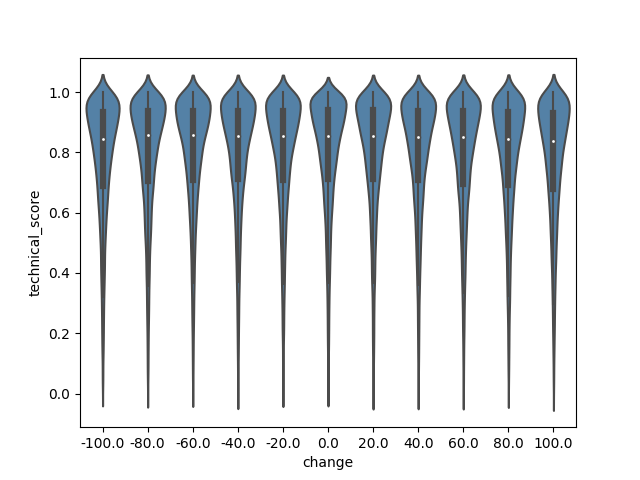
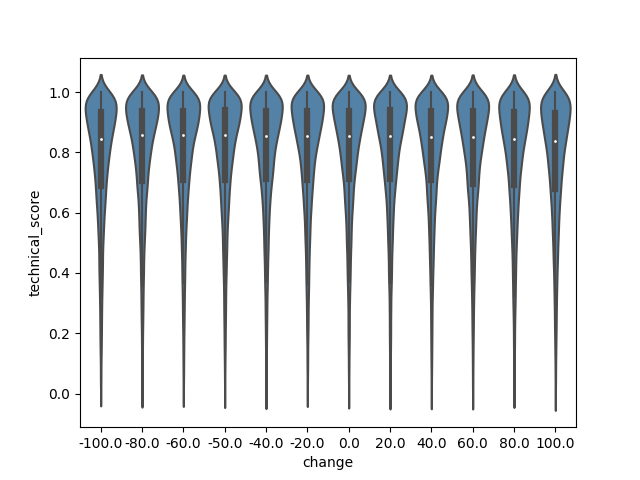
fixing defaults

Changed region(s): [[0.125, 0.1562, 0.9062, 0.875], [0.125, 0.9062, 0.9062, 0.9375]]

diff --git a/analysis_code/SSMTIA_test.py b/analysis_code/SSMTIA_test.py
@@ -8,7 +8,7 @@ from scipy import stats
 
 sys.path.insert(0, ".")
 
-from SSMTIA.utils import mapping
+from SSMTIA.utils import mapping, parameter_range
 
 
 def histogram_distortion(distortion: str, score: str):
@@ -22,9 +22,11 @@ def histogram_distortion(distortion: str, score: str):
     plt.clf()
 
 
-def violin_distortion(distortion: str, score: str):  # FIXME defaults for shadows, hightlights...
+def violin_distortion(distortion: str, score: str):
     plt.clf()
     plot_frame = df[(df["parameter"] == distortion) | (df["parameter"] == "original")]
+    if distortion in parameter_range:
+        plot_frame.loc[plot_frame["parameter"] == "original", "change"] = parameter_range[distortion]["default"]
     sns.violinplot(data=plot_frame, x="change", y=score, color="steelblue")  # TODO colors for scores
     plt.savefig(f"analysis/SSMTIA/mobilenet/viol_{distortion}_{score}.png")
     plt.clf()
